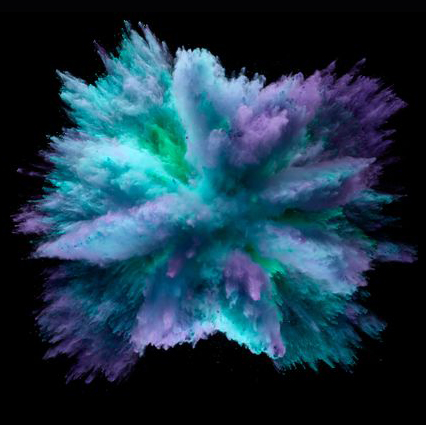
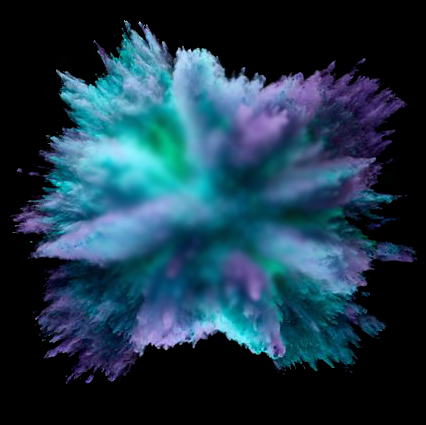
navbarOk

diff --git a/proyecto/src/Components/Home/Home.css b/proyecto/src/Components/Home/Home.css
@@ -136,7 +136,7 @@
     animation-name: example;
     animation-duration: 300s;
     animation-iteration-count: infinite;
-    filter: blur(2px);
+    
     
 }
 
@@ -154,8 +154,8 @@
     flex-direction: column;
      align-items: center;
     justify-content: center;
-    margin-top: 0px;
-    margin-bottom: -250px;
+    margin-top: -10px;
+    margin-bottom: -340px;
 }
 
 @media screen and (max-width: 400px) {
@@ -167,5 +167,7 @@
     .contenedor_imagenes{
         width: 100%;
     }
+
+   
 
 }

diff --git a/proyecto/src/Components/Nav/Nav.css b/proyecto/src/Components/Nav/Nav.css
@@ -14,7 +14,7 @@
     justify-content: space-between;
     align-items: center;
     color: aliceblue;
-    margin-bottom: 150px;
+    margin-bottom: 100px;
 }
 
 .nav_h2 {
